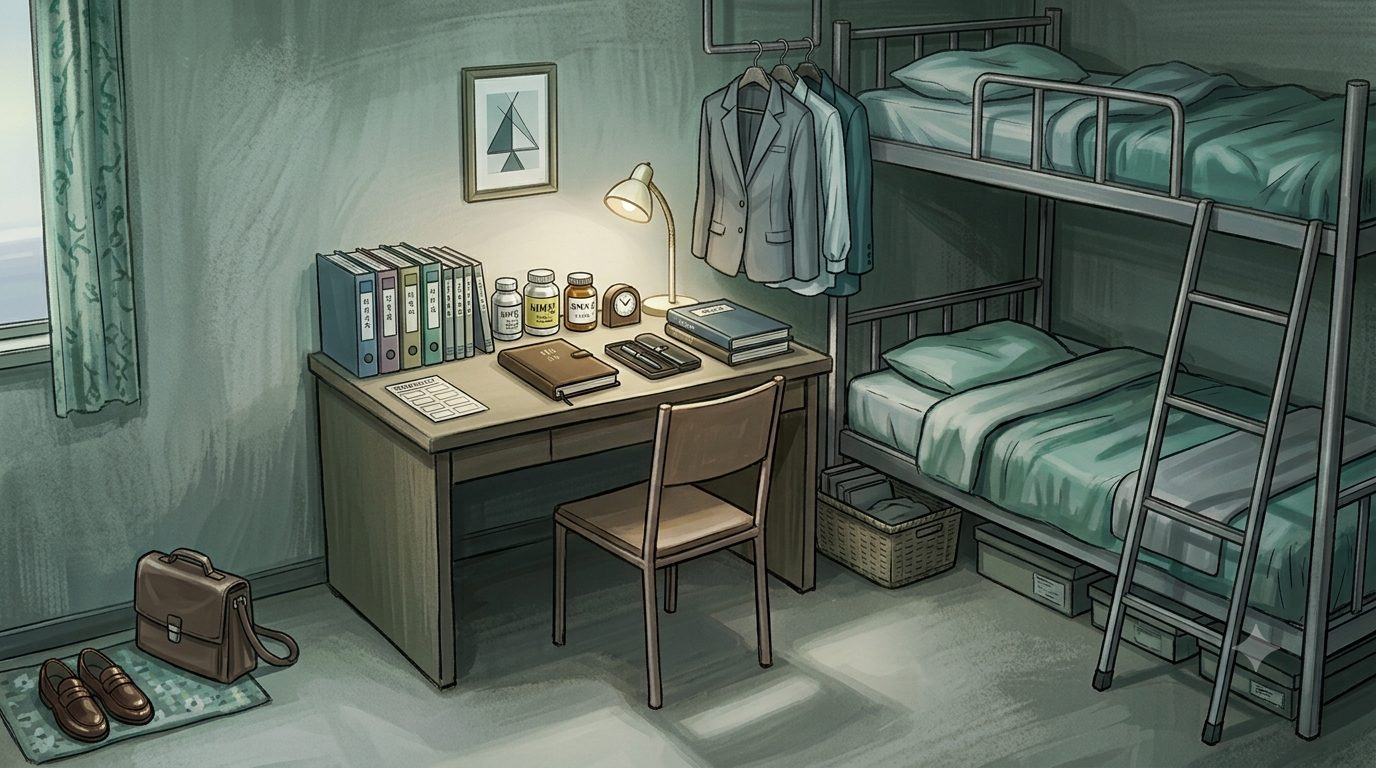
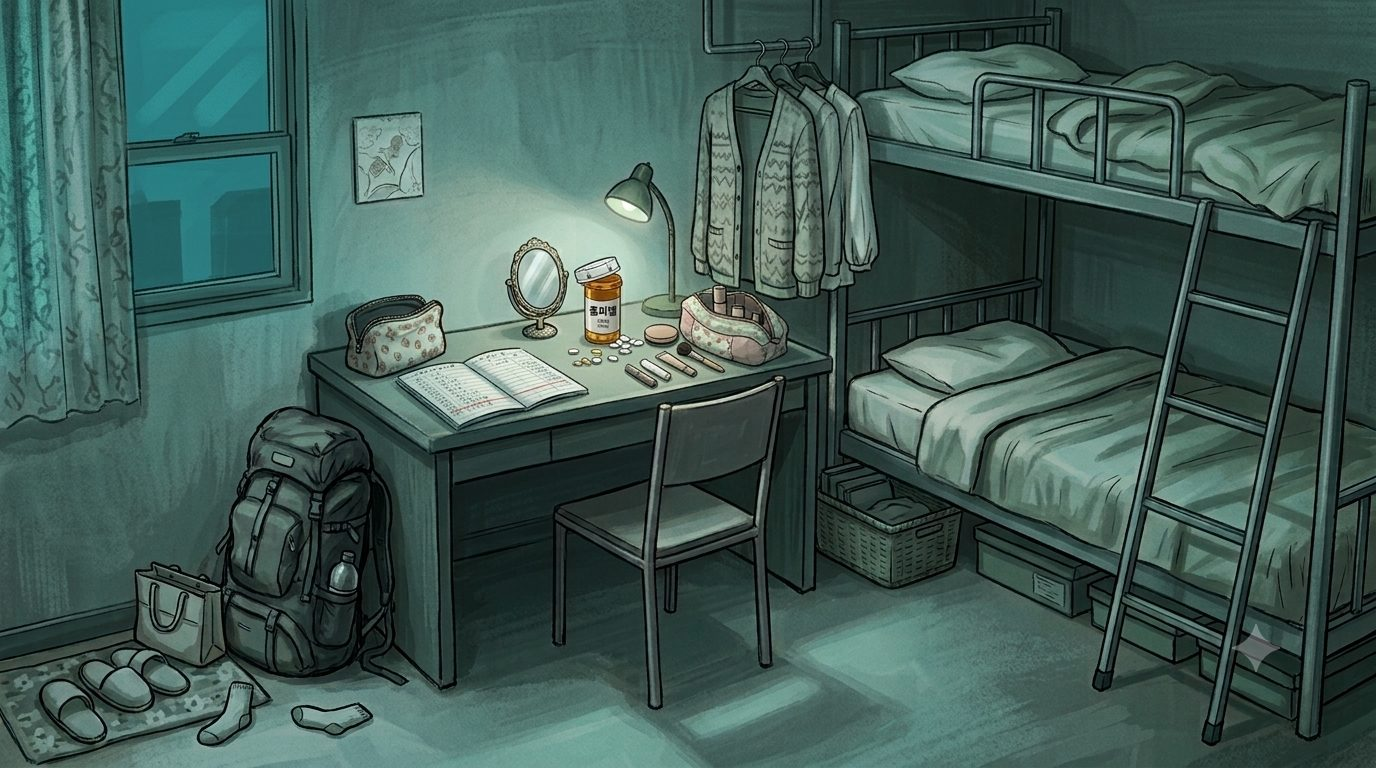
feat(solo): 방 배경을 단서 실물 사진 기준으로 재생성(7방) — 단서-방 일관성
- 각 방을 그 방의 단서 실물 이미지(public/images/*.jpg)를 Gemini에 첨부해
  "소품을 사진 생김새대로" 다시 그림 → 방 배경과 단서 열람 이미지의 불일치 해소
  · 종현방=단백질/요힘빈/쉐이크통/등산지도, 사랑방=파우치/라벨지/풀/독촉장,
    희원방=요일별약통/손목시계/파우치, 현지방=졸피뎀/장부/파우치,
    가현방=소아과영수증/아이그림/파우치, 은재방=제안서/운동화/약봉투,
    목사방=텀블러/설하정약통/베개 + 사건현장(증거표식·통제테이프)
  · 1600px jpg(q82) 최적화 유지
- SW 캐시 v9 — 갱신된 방 배경 반영

diff --git a/public/sw.js b/public/sw.js
@@ -1,6 +1,6 @@
 // 서비스워커 — 오프라인 실행용(런타임 캐시, 앱셸 폴백).
 //   프로덕션에서만 등록됨(main.jsx). 개발(HMR)에는 등록 안 함.
-const CACHE = 'morningdew-solo-v8';
+const CACHE = 'morningdew-solo-v9';
 const SHELL = ['/solo.html', '/manifest.webmanifest', '/icon.svg', '/favicon2.png'];
 
 self.addEventListener('install', (e) => {
